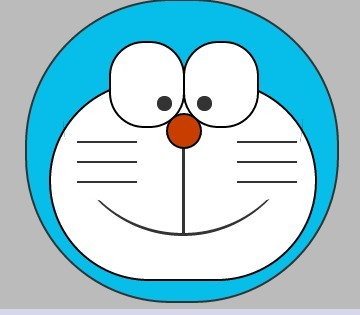
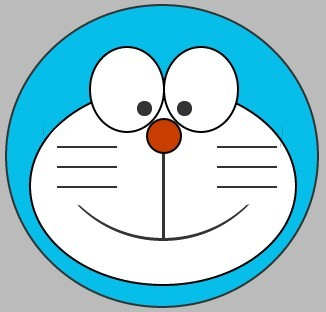
[+]

Changed region(s): [[0.0, 0.1154, 1.0, 1.0], [0.2454, 0.0, 0.8589, 0.1731], [0.2147, 0.0865, 0.2454, 0.1154]]

diff --git a/pping/pokonyan/pokonyan.html b/pping/pokonyan/pokonyan.html
@@ -5,37 +5,35 @@
 <title>this</title>
 <link rel="stylesheet" href="" />
 <style type="text/css">
-	body{background-color: #fff;}
+	body{background-color: #BBBBBB;}
 	.pokonyan{
 		position: relative;
-		width: 310px;
-		height: 300px;
+		width: 36px;
+		height: 36px;
 		border-radius: 50%;
-		margin: 100px auto;
-		background-color: #C93D00;
-		box-shadow: 0px 0px 0 1px #000, inset 2;
-	}
-	.pokonyan:after{
-		content: '';
-		position: absolute;
-		top: 150px;
-		left: 88px;
-		width: 140px;
-		height: 120px;
-		border-radius: 50%;
-		background-color: #C93D00;
-		box-shadow: 0px 0px 0 1px #000,inset 0px -20px 0 48px #fff; 
+		margin: 300px auto;
+		background-color: #C63D01;
+		box-shadow: 0px 0px 0 1px #000,42px 25px 0 -17px #000,44px 25px 0 -17px #000,46px 25px 0 -17px #000,48px 25px 0 -17px #000,50px 25px 0 -17px #000,52px 25px 0 -17px #000,54px 25px 0 -17px #000,56px 25px 0 -17px #000,58px 25px 0 -17px #000,60px 25px 0 -17px #000,62px 25px 0 -17px #000,64px 25px 0 -17px #000,66px 25px 0 -17px #000,68px 25px 0 -17px #000,70px 25px 0 -17px #000,72px 25px 0 -17px #000,74px 25px 0 -17px #000,76px 25px 0 -17px #000,78px 25px 0 -17px #000,80px 25px 0 -17px #000,82px 25px 0 -17px #000,84px 25px 0 -17px #000,42px 47px 0 -17px #000,44px 47px 0 -17px #000,46px 47px 0 -17px #000,48px 47px 0 -17px #000,50px 47px 0 -17px #000,52px 47px 0 -17px #000,54px 47px 0 -17px #000,56px 47px 0 -17px #000,58px 47px 0 -17px #000,60px 47px 0 -17px #000,62px 47px 0 -17px #000,64px 47px 0 -17px #000,66px 47px 0 -17px #000,68px 47px 0 -17px #000,70px 47px 0 -17px #000,72px 47px 0 -17px #000,74px 47px 0 -17px #000,76px 47px 0 -17px #000,78px 47px 0 -17px #000,80px 47px 0 -17px #000,82px 47px 0 -17px #000,84px 47px 0 -17px #000,42px 70px 0 -17px #000,44px 70px 0 -17px #000,46px 70px 0 -17px #000,48px 70px 0 -17px #000,50px 70px 0 -17px #000,52px 70px 0 -17px #000,54px 70px 0 -17px #000,56px 70px 0 -17px #000,58px 70px 0 -17px #000,60px 70px 0 -17px #000,62px 70px 0 -17px #000,64px 70px 0 -17px #000,66px 70px 0 -17px #000,68px 70px 0 -17px #000,70px 70px 0 -17px #000,72px 70px 0 -17px #000,74px 70px 0 -17px #000,76px 70px 0 -17px #000,78px 70px 0 -17px #000,80px 70px 0 -17px #000,82px 70px 0 -17px #000,84px 70px 0 -17px #000,-42px 25px 0 -17px #000,-44px 25px 0 -17px #000,-46px 25px 0 -17px #000,-48px 25px 0 -17px #000,-50px 25px 0 -17px #000,-52px 25px 0 -17px #000,-54px 25px 0 -17px #000,-56px 25px 0 -17px #000,-58px 25px 0 -17px #000,-60px 25px 0 -17px #000,-62px 25px 0 -17px #000,-64px 25px 0 -17px #000,-66px 25px 0 -17px #000,-68px 25px 0 -17px #000,-70px 25px 0 -17px #000,-72px 25px 0 -17px #000,-74px 25px 0 -17px #000,-76px 25px 0 -17px #000,-78px 25px 0 -17px #000,-80px 25px 0 -17px #000,-82px 25px 0 -17px #000,-84px 25px 0 -17px #000,-42px 47px 0 -17px #000,-44px 47px 0 -17px #000,-46px 47px 0 -17px #000,-48px 47px 0 -17px #000,-50px 47px 0 -17px #000,-52px 47px 0 -17px #000,-54px 47px 0 -17px #000,-56px 47px 0 -17px #000,-58px 47px 0 -17px #000,-60px 47px 0 -17px #000,-62px 47px 0 -17px #000,-64px 47px 0 -17px #000,-66px 47px 0 -17px #000,-68px 47px 0 -17px #000,-70px 47px 0 -17px #000,-72px 47px 0 -17px #000,-74px 47px 0 -17px #000,-76px 47px 0 -17px #000,-78px 47px 0 -17px #000,-80px 47px 0 -17px #000,-82px 47px 0 -17px #000,-84px 47px 0 -17px #000,-42px 70px 0 -17px #000,-44px 70px 0 -17px #000,-46px 70px 0 -17px #000,-48px 70px 0 -17px #000,-50px 70px 0 -17px #000,-52px 70px 0 -17px #000,-54px 70px 0 -17px #000,-56px 70px 0 -17px #000,-58px 70px 0 -17px #000,-60px 70px 0 -17px #000,-62px 70px 0 -17px #000,-64px 70px 0 -17px #000,-66px 70px 0 -17px #000,-66px 70px 0 -17px #000,-68px 70px 0 -17px #000,-70px 70px 0 -17px #000,-72px 70px 0 -17px #000,-74px 70px 0 -17px #000,-76px 70px 0 -17px #000,-78px 70px 0 -17px #000,-80px 70px 0 -17px #000,-82px 70px 0 -17px #000,-84px 70px 0 -17px #000,-20px -26px 0 -10px #333333,-34px -40px 0 15px #fff,-34px -40px 0 16px,20px -26px 0 -10px #333333,34px -40px 0 15px #fff,34px -40px 0 16px,0px 55px 0 75px #fff,0px 55px 0 76px #000,0 22px 0 120px #08BDEB,0 22px 0 121px #000;
 	}
 	.pokonyan:before{
 		content: '';
 		position: absolute;
-		bottom: 140px;
-		left: 100px;
-		width: 70px;
+		bottom: -81px;
+		left: 17px;
+		height: 80px;
+		width: 2px;
+		background-color: #000;
+	}
+	.pokonyan:after{
+		content: '';
+		position: absolute;
+		bottom: -83px;
+		left: -44px;
+		width: 125px;
 		height: 70px;
-		border-left: solid 4px white;
-		border-bottom: solid 4px white;
-		border-bottom-left-radius:80px;
+		border-bottom-right-radius: 28px;
+		border-bottom: solid 2px black;
+		border-bottom-left-radius: 28px;
 	}
 </style>
 </head>
